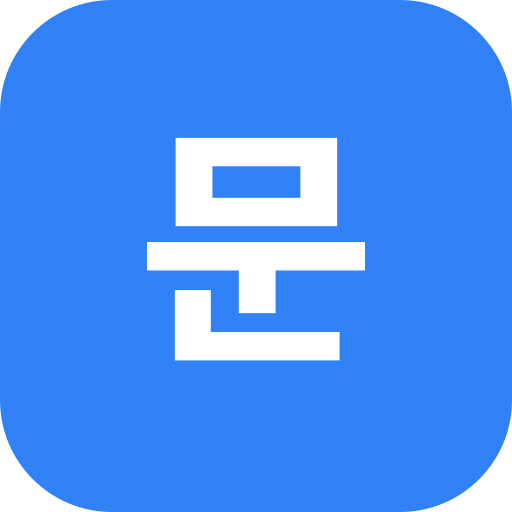
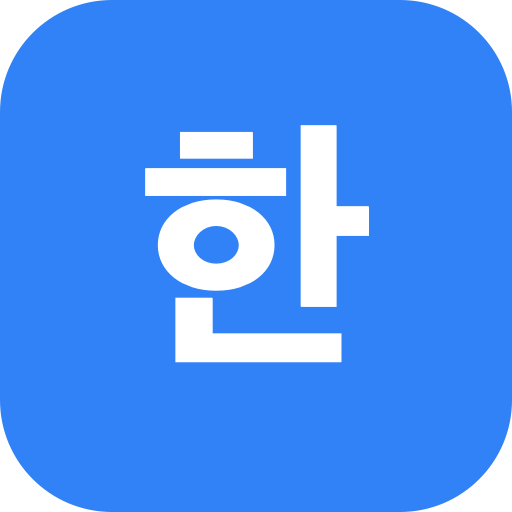
Rebrand to HangulSteps; deploy to hangulsteps.com (CNAME, origin, base /)

Changed region(s): [[0.2812, 0.2188, 0.7188, 0.6875], [0.3438, 0.6562, 0.6875, 0.7188]]

diff --git a/templates/index.html b/templates/index.html
@@ -1,6 +1,6 @@
 {% extends "base.html" %}
 {% block head %}
-<script type="application/ld+json">{"@context":"https://schema.org","@type":"WebApplication","name":"Munjang","applicationCategory":"EducationalApplication","operatingSystem":"Any","url":"{{ origin }}{{ base }}{{ path }}","inLanguage":"{{ lang }}","description":"{{ ui.meta_desc }}","offers":{"@type":"Offer","price":"0","priceCurrency":"USD"}}</script>
+<script type="application/ld+json">{"@context":"https://schema.org","@type":"WebApplication","name":"HangulSteps","applicationCategory":"EducationalApplication","operatingSystem":"Any","url":"{{ origin }}{{ base }}{{ path }}","inLanguage":"{{ lang }}","description":"{{ ui.meta_desc }}","offers":{"@type":"Offer","price":"0","priceCurrency":"USD"}}</script>
 {% endblock %}
 {% block content %}
 <section class="hero">
@@ -69,12 +69,12 @@
 <section class="intro prose">
   {% if lang == 'ja' %}
   <h2>なぜ「ランダムな文」ではないのか</h2>
-  <p>ハングルは1週間で読めるようになります。つまずくのはその先——「単語は分かるのに、은/는 と 이/가 のどちらを付けるのか」「학교에 なのか 학교에서 なのか」「どこでスペースを入れるのか」です。Munjang は検証済みの初級文型 {{ counts.frames }} 種と単語 {{ counts.nouns }} 語だけを組み合わせるので、初級で実際に使える型の中で文を組み立てられます。助詞を選ぶたびに、正しいか・自然か・なぜかをその場で説明します。</p>
+  <p>ハングルは1週間で読めるようになります。つまずくのはその先——「単語は分かるのに、은/는 と 이/가 のどちらを付けるのか」「학교에 なのか 학교에서 なのか」「どこでスペースを入れるのか」です。HangulSteps は検証済みの初級文型 {{ counts.frames }} 種と単語 {{ counts.nouns }} 語だけを組み合わせるので、初級で実際に使える型の中で文を組み立てられます。助詞を選ぶたびに、正しいか・自然か・なぜかをその場で説明します。</p>
   <h2>原稿用紙に印刷して、手で書く</h2>
   <p>完成した文は5つまでためて、韓国の原稿用紙（원고지）形式で印刷できます。1マス1音節、スペースは空きマス——TOPIK の作文と同じ書き方です。</p>
   {% else %}
   <h2>Why this is not a random sentence generator</h2>
-  <p>You can read Hangul after a week. The wall comes right after: you know the words, but is it 은/는 or 이/가? 학교에 or 학교에서? Where do the spaces go? Munjang only combines {{ counts.frames }} reviewed beginner frames with {{ counts.nouns }} words, so the sentences you build stay inside patterns a beginner can actually use. Each time you choose a particle it tells you whether it is right, whether it sounds natural, and why.</p>
+  <p>You can read Hangul after a week. The wall comes right after: you know the words, but is it 은/는 or 이/가? 학교에 or 학교에서? Where do the spaces go? HangulSteps only combines {{ counts.frames }} reviewed beginner frames with {{ counts.nouns }} words, so the sentences you build stay inside patterns a beginner can actually use. Each time you choose a particle it tells you whether it is right, whether it sounds natural, and why.</p>
   <h2>Print it on manuscript paper and write it by hand</h2>
   <p>Keep up to five finished sentences and print them on a Korean 원고지 grid — one syllable per square, one empty square per space, the same way the TOPIK writing section is laid out.</p>
   {% endif %}

diff --git a/templates/about.html b/templates/about.html
@@ -1,15 +1,15 @@
 {% extends "base.html" %}
-{% block title %}{{ ui.about_h1 }} | Munjang{% endblock %}
+{% block title %}{{ ui.about_h1 }} | HangulSteps{% endblock %}
 {% block content %}
 <article class="prose">
 <h1>{{ ui.about_h1 }}</h1>
 {% if lang == 'ja' %}
-<p>Munjang（문장＝文）は、ハングルを読めるようになった直後の学習者のためのツールです。文字 → 単語 → 助詞つきの文 → 手書き練習、を1画面でつなぎます。</p>
+<p>HangulSteps は、ハングルを読めるようになった直後の学習者のためのツールです。文字 → 単語 → 助詞つきの文 → 手書き練習、を1画面でつなぎます。</p>
 <h2>方針</h2>
 <ul><li>文は {{ counts.frames }} 種の検証済み文型と {{ counts.nouns }} の名詞・{{ counts.verbs }} の動詞・{{ counts.adjectives }} の形容詞からのみ作られます。ランダムな組み合わせは出しません。</li><li>助詞の判定は「形（パッチム）」と「自然さ（主題か主格か）」を分けて説明します。</li><li>音声は端末の韓国語音声（Web Speech API）を使い、外部に送信しません。作った文はこの端末のブラウザにだけ保存されます。</li></ul>
 <h2>収益について</h2><p>広告と、先生紹介リンク（紹介料を受け取る場合があります）で運営しています。判定や例文には影響しません。</p>
 {% else %}
-<p>Munjang (문장 = “sentence”) is for the moment right after you can read Hangul: letters → words → a sentence with the right particles → handwriting practice, all on one screen.</p>
+<p>HangulSteps is for the moment right after you can read Hangul: letters → words → a sentence with the right particles → handwriting practice, all on one screen.</p>
 <h2>How it works</h2>
 <ul><li>Sentences are built only from {{ counts.frames }} reviewed beginner frames and {{ counts.nouns }} nouns, {{ counts.verbs }} verbs and {{ counts.adjectives }} adjectives. Nothing is randomly combined.</li><li>Particle feedback separates the <em>form</em> rule (받침) from the <em>naturalness</em> rule (topic vs subject), so “grammatical but odd” is shown as exactly that.</li><li>Audio uses your device’s Korean voice (Web Speech API); nothing is sent anywhere. Your sentences are stored only in this browser.</li></ul>
 <h2>Money</h2><p>The site runs on ads and tutor referral links (we may earn a fee). Neither affects the feedback or the example sentences.</p>

diff --git a/templates/guide_spacing.html b/templates/guide_spacing.html
@@ -1,5 +1,5 @@
 {% extends "base.html" %}
-{% block title %}{% if lang == 'ja' %}韓国語の分かち書き（띄어쓰기）— どこでスペースを入れるか | Munjang{% else %}Korean spacing (띄어쓰기) — where the spaces go | Munjang{% endif %}{% endblock %}
+{% block title %}{% if lang == 'ja' %}韓国語の分かち書き（띄어쓰기）— どこでスペースを入れるか | HangulSteps{% else %}Korean spacing (띄어쓰기) — where the spaces go | HangulSteps{% endif %}{% endblock %}
 {% block description %}{% if lang == 'ja' %}日本語にはない分かち書き。「単語＋助詞」のかたまりごとにスペース、助詞は前にくっつける、-고 싶어요 の前は空ける。原稿用紙での書き方も。{% else %}Korean writes spaces between words, but particles stick to the word before them, and -고 싶어요 splits. The four rules beginners need, plus how it looks on 원고지 manuscript paper.{% endif %}{% endblock %}
 {% block content %}
 <article class="prose">
@@ -13,7 +13,7 @@
 <li><b>안 は動詞と離す。</b> <span lang="ko">안⎵마셔요</span>。「名詞＋하다」の活動動詞は名詞と 하다 の間に：<span lang="ko">공부⎵안⎵해요</span>（ただし <span lang="ko">안 좋아해요</span> — 좋아하다 は分けません）。</li>
 </ol>
 <h2>原稿用紙では</h2>
-<p>1マスに1音節、スペースは1マス空ける、句点「.」は1マス。行頭にはスペースのマスを置かず、行頭に来る句読点は前の行の最後のマスに入れます。Munjang の<a href="{{ base }}{{ ui.dir }}print/">印刷ページ</a>はこの流儀でマスを割り当てます。</p>
+<p>1マスに1音節、スペースは1マス空ける、句点「.」は1マス。行頭にはスペースのマスを置かず、行頭に来る句読点は前の行の最後のマスに入れます。HangulSteps の<a href="{{ base }}{{ ui.dir }}print/">印刷ページ</a>はこの流儀でマスを割り当てます。</p>
 {% else %}
 <h1>Spacing — one space per “word + particle” chunk</h1>
 <p class="lead">Korean uses spaces, but not where English does. The chunk is the unit: a word together with its particle. Four rules cover every sentence on this site.</p>

diff --git a/templates/privacy.html b/templates/privacy.html
@@ -1,15 +1,15 @@
 {% extends "base.html" %}
-{% block title %}{% if lang == 'ja' %}プライバシーポリシー{% else %}Privacy policy{% endif %} | Munjang{% endblock %}
+{% block title %}{% if lang == 'ja' %}プライバシーポリシー{% else %}Privacy policy{% endif %} | HangulSteps{% endblock %}
 {% block content %}
 <article class="prose">
 {% if lang == 'ja' %}
 <h1>プライバシーポリシー</h1>
-<p>Munjang はアカウントを作らず、入力内容をサーバーに送信しません。作成した文はお使いのブラウザの localStorage にのみ保存され、「消す」で削除できます。</p>
+<p>HangulSteps はアカウントを作らず、入力内容をサーバーに送信しません。作成した文はお使いのブラウザの localStorage にのみ保存され、「消す」で削除できます。</p>
 <p>本サイトは Google AdSense による広告と Cloudflare Web Analytics（Cookie 不使用）を利用します。Google は Cookie を使って広告を配信することがあります。詳細は <a href="https://policies.google.com/technologies/ads" rel="noopener">Google の広告ポリシー</a>をご覧ください。</p>
 <p>先生紹介リンクは外部サイトへ移動します。移動先の取り扱いは各サイトのポリシーに従います。</p>
 {% else %}
 <h1>Privacy policy</h1>
-<p>Munjang has no accounts and sends nothing you type to a server. The sentences you build are stored only in your browser’s localStorage and can be removed with “Clear”.</p>
+<p>HangulSteps has no accounts and sends nothing you type to a server. The sentences you build are stored only in your browser’s localStorage and can be removed with “Clear”.</p>
 <p>The site uses Google AdSense for ads and Cloudflare Web Analytics (cookie-free). Google may use cookies to serve ads; see <a href="https://policies.google.com/technologies/ads" rel="noopener">Google’s advertising policies</a>.</p>
 <p>Tutor referral links lead to third-party sites governed by their own policies.</p>
 {% endif %}

diff --git a/templates/base.html b/templates/base.html
@@ -16,7 +16,7 @@
 <link rel="icon" href="{{ base }}static/favicon.svg?v={{ v }}" type="image/svg+xml">
 <link rel="apple-touch-icon" href="{{ base }}static/apple-touch-icon.png?v={{ v }}">
 <link rel="manifest" href="{{ base }}static/manifest.webmanifest?v={{ v }}">
-<meta name="apple-mobile-web-app-title" content="Munjang">
+<meta name="apple-mobile-web-app-title" content="HangulSteps">
 <meta name="mobile-web-app-capable" content="yes">
 <meta name="theme-color" content="#f8f9fc" media="(prefers-color-scheme: light)">
 <meta name="theme-color" content="#10141d" media="(prefers-color-scheme: dark)">
@@ -29,7 +29,7 @@
 </head>
 <body>
 <header class="top">
-  <a class="brand" href="{{ base }}{{ ui.dir }}"><span class="mark" aria-hidden="true">문</span><b>Munjang</b><span class="ko">문장</span></a>
+  <a class="brand" href="{{ base }}{{ ui.dir }}"><span class="mark" aria-hidden="true">한</span><b>HangulSteps</b><span class="ko">한글</span></a>
   <nav aria-label="Main">
     <a href="{{ base }}{{ ui.dir }}"{% if slug == 'home' %} aria-current="page"{% endif %}>{{ ui.nav_builder }}</a>
     <details class="menu">
@@ -55,7 +55,7 @@
 {% block content %}{% endblock %}
 </main>
 <footer>
-  <p><b>Munjang</b> <span class="muted">{{ ui.tagline }}</span></p>
+  <p><b>HangulSteps</b> <span class="muted">{{ ui.tagline }}</span></p>
   <p><a href="{{ base }}{{ ui.dir }}about/">{{ ui.nav_about }}</a> · <a href="{{ base }}{{ ui.dir }}privacy/">{% if lang == 'ja' %}プライバシー{% else %}Privacy{% endif %}</a> · <a href="{{ base }}{{ ui.dir }}contact/">{% if lang == 'ja' %}お問い合わせ{% else %}Contact{% endif %}</a></p>
   <p class="muted">{{ ui.footer_note }}</p>
 </footer>

diff --git a/templates/contact.html b/templates/contact.html
@@ -1,14 +1,14 @@
 {% extends "base.html" %}
-{% block title %}{% if lang == 'ja' %}お問い合わせ{% else %}Contact{% endif %} | Munjang{% endblock %}
+{% block title %}{% if lang == 'ja' %}お問い合わせ{% else %}Contact{% endif %} | HangulSteps{% endblock %}
 {% block content %}
 <article class="prose">
 {% if lang == 'ja' %}
 <h1>お問い合わせ</h1>
-<p>例文の誤り、助詞の判定への異議、文型のリクエストは <a href="mailto:hello@munjanglab.com">hello@munjanglab.com</a> へ。誤りの指摘は確認のうえ修正します。</p>
+<p>例文の誤り、助詞の判定への異議、文型のリクエストは <a href="mailto:hello@hangulsteps.com">hello@hangulsteps.com</a> へ。誤りの指摘は確認のうえ修正します。</p>
 <p>週替わり文型パック（PDF）の公開通知を希望される方も、同じアドレスに件名「pack」でご連絡ください。</p>
 {% else %}
 <h1>Contact</h1>
-<p>Found a sentence that sounds off, disagree with a particle verdict, or want a frame added? Write to <a href="mailto:hello@munjanglab.com">hello@munjanglab.com</a>. Corrections are checked and fixed.</p>
+<p>Found a sentence that sounds off, disagree with a particle verdict, or want a frame added? Write to <a href="mailto:hello@hangulsteps.com">hello@hangulsteps.com</a>. Corrections are checked and fixed.</p>
 <p>To be told when the weekly sentence pack (PDF) is out, email the same address with the subject “pack”.</p>
 {% endif %}
 </article>

diff --git a/templates/guide_particles.html b/templates/guide_particles.html
@@ -1,5 +1,5 @@
 {% extends "base.html" %}
-{% block title %}{% if lang == 'ja' %}은/는 と 이/가 の使い分け — 例文で判定する助詞ガイド | Munjang{% else %}은/는 vs 이/가 — the Korean particle guide with a built-in quiz | Munjang{% endif %}{% endblock %}
+{% block title %}{% if lang == 'ja' %}은/는 と 이/가 の使い分け — 例文で判定する助詞ガイド | HangulSteps{% else %}은/는 vs 이/가 — the Korean particle guide with a built-in quiz | HangulSteps{% endif %}{% endblock %}
 {% block description %}{% if lang == 'ja' %}「저는」なのに「제가」？ 은/는（主題）と 이/가（主格）の違いを、パッチムの形の規則と、どちらが自然かの規則に分けて解説。을/를・에・에서 も同じ流儀で。ミニクイズ付き。{% else %}Why is it 저는 but 제가? 은/는 (topic) vs 이/가 (subject), split into the form rule (받침) and the naturalness rule, plus 을/를 · 에 · 에서. With a mini quiz that explains every answer.{% endif %}{% endblock %}
 {% block content %}
 <article class="prose">

diff --git a/templates/guide_word-order.html b/templates/guide_word-order.html
@@ -1,5 +1,5 @@
 {% extends "base.html" %}
-{% block title %}{% if lang == 'ja' %}韓国語の語順（SOV）— 日本語と同じところ、違うところ | Munjang{% else %}Korean word order (SOV) — why the verb goes last, and what can move | Munjang{% endif %}{% endblock %}
+{% block title %}{% if lang == 'ja' %}韓国語の語順（SOV）— 日本語と同じところ、違うところ | HangulSteps{% else %}Korean word order (SOV) — why the verb goes last, and what can move | HangulSteps{% endif %}{% endblock %}
 {% block description %}{% if lang == 'ja' %}韓国語は日本語と同じ SOV。助詞があるから語順は動かせる、でも動詞は最後。初級で使う5つの型を例文で。{% else %}Korean is Subject–Object–Verb. Because particles mark each role, the middle can move, but the verb always ends the sentence. The five beginner frames, with examples.{% endif %}{% endblock %}
 {% block content %}
 <article class="prose">

diff --git a/static/print.js b/static/print.js
@@ -21,7 +21,7 @@
   function render() {
     if (!tray.length) return;
     sheet.innerHTML = '';
-    const title = document.createElement('div'); title.className = 'sheet-title'; title.innerHTML = `<b>문장 연습</b><span>${new Date().toISOString().slice(0, 10)} · munjanglab.com</span>`;
+    const title = document.createElement('div'); title.className = 'sheet-title'; title.innerHTML = `<b>한글 문장 연습</b><span>${new Date().toISOString().slice(0, 10)} · hangulsteps.com</span>`;
     sheet.appendChild(title);
     tray.forEach((s, i) => {
       const block = document.createElement('div'); block.className = 'sent';

diff --git a/templates/404.html b/templates/404.html
@@ -1,5 +1,5 @@
 {% extends "base.html" %}
-{% block title %}Not found | Munjang{% endblock %}
+{% block title %}Not found | HangulSteps{% endblock %}
 {% block content %}
 <article class="prose"><h1>404</h1><p>That page does not exist. <a href="{{ base }}">Back to the builder →</a></p></article>
 {% endblock %}

diff --git a/templates/check.html b/templates/check.html
@@ -1,5 +1,5 @@
 {% extends "base.html" %}
-{% block title %}{{ ui.check_h1 }} | Munjang{% endblock %}
+{% block title %}{{ ui.check_h1 }} | HangulSteps{% endblock %}
 {% block description %}{{ ui.check_meta }}{% endblock %}
 {% block content %}
 <section class="prose print-head">

diff --git a/templates/topik.html b/templates/topik.html
@@ -1,5 +1,5 @@
 {% extends "base.html" %}
-{% block title %}{{ ui.topik_h1 }} | Munjang{% endblock %}
+{% block title %}{{ ui.topik_h1 }} | HangulSteps{% endblock %}
 {% block description %}{{ ui.topik_meta }}{% endblock %}
 {% block content %}
 <section class="prose print-head">
